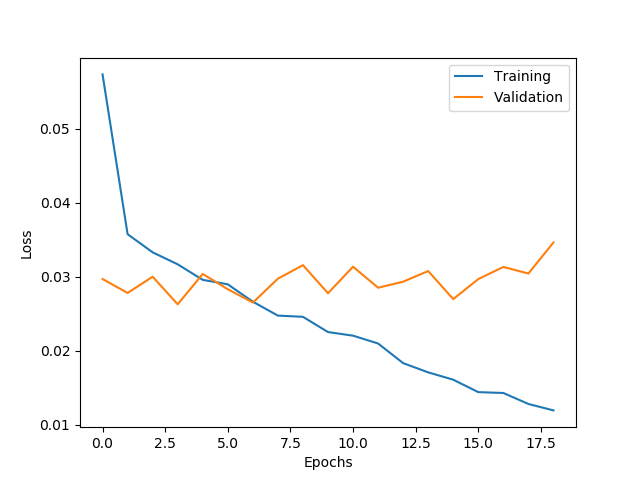
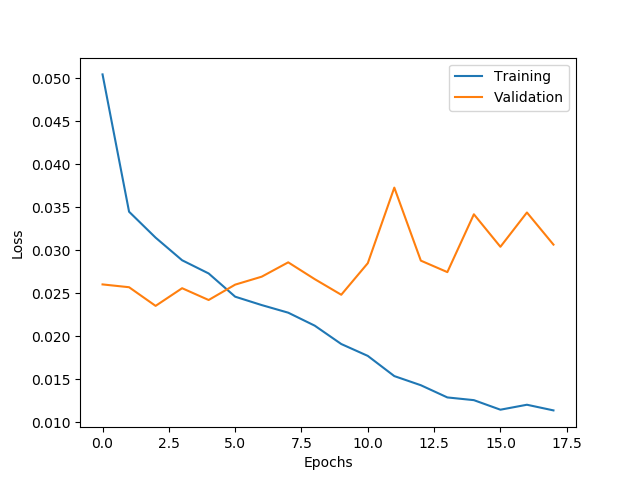
99.9% chance to drop ~0 steering angle data

diff --git a/Train.py b/Train.py
@@ -52,8 +52,8 @@ print(log_df['center'][:10])
 
 # Split the data
 train_img_ids, valid_img_ids, test_img_ids = separate(log_df.index.values, valid_split, test_split)
-plt.hist(log_df.loc[train_img_ids, 'steering'], bins=np.arange(-0.95, 1.0, 0.1))
-plt.show()
+# plt.hist(log_df.loc[train_img_ids, 'steering'], bins=np.arange(-0.95, 1.0, 0.1))
+# plt.show()
 
 #Scale the data
 # scaler = preprocessing.StandardScaler(with_mean=False).fit(log_df.loc[train_img_ids, 'steering'].values.reshape((-1, 1)))
@@ -62,16 +62,15 @@ plt.show()
 filtered_train_img_id = []
 for img_id in train_img_ids:
     if abs(log_df.at[img_id, 'steering']) < 0.001:
-        if np.random.random_sample() < 0.01:
+        if np.random.random_sample() < 0.001:
             filtered_train_img_id.append(img_id)
     else:
         filtered_train_img_id.append(img_id)
 
-
 train_img_ids = filtered_train_img_id
 
-plt.hist(log_df.loc[filtered_train_img_id,'steering'], bins=np.arange(-0.95, 1.0, 0.1))
-plt.show()
+# plt.hist(log_df.loc[filtered_train_img_id, 'steering'], bins=np.arange(-0.95, 1.0, 0.1))
+# plt.show()
 
 np.save("train_img_ids.npy", train_img_ids)
 np.save("valid_img_ids.npy", valid_img_ids)
@@ -98,18 +97,17 @@ gt_ID = training_generator.get_last_batch_ImageIDs()
 print(gt_img.shape, gt_commands.shape)
 print(gt_commands[0])
 # plt.imshow(cv2.cvtColor(gt_img[0]*0.5+0.5, cv2.COLOR_RGB2YUV))
-for idx in range(1):
-    filename = log_df.at[gt_ID[idx], 'center']
-    filename = filename[filename.find('Datasets')+9:]
-    show_image_with_steering_cmd(gt_img[idx]*0.5+0.5, gt_commands[idx], filename)
+# for idx in range(1):
+#     filename = log_df.at[gt_ID[idx], 'center']
+#     filename = filename[filename.find('Datasets')+9:]
+#     show_image_with_steering_cmd(gt_img[idx]*0.5+0.5, gt_commands[idx], filename)
 
 
+# Look at the distribution of the generator output
 steering_cmds = np.empty(50*batch_size)
 for idx in tqdm(range(50)):
     gt_img, gt_commands = training_generator.__getitem__(idx)
     steering_cmds[idx*batch_size:(idx+1)*batch_size] = gt_commands.flatten()
-
-
 print(min(steering_cmds), max(steering_cmds))
 # np.set_printoptions(threshold=np.nan)
 plt.hist(steering_cmds, bins=np.arange(-0.95, 1.0, 0.1))
@@ -139,9 +137,7 @@ def NvidiaCNN(input_layer):
     x = BatchNormalization()(x)
     x = Flatten()(x)
     x = Dense(units=50, activation='tanh')(x)
-    # x = Dropout(0.25)(x)
     x = Dense(units=25, activation='tanh')(x)
-    # x = Dropout(0.25)(x)
     x = Dense(units=5, activation='tanh')(x)
     x = Dense(units=1, activation='tanh')(x)
 
